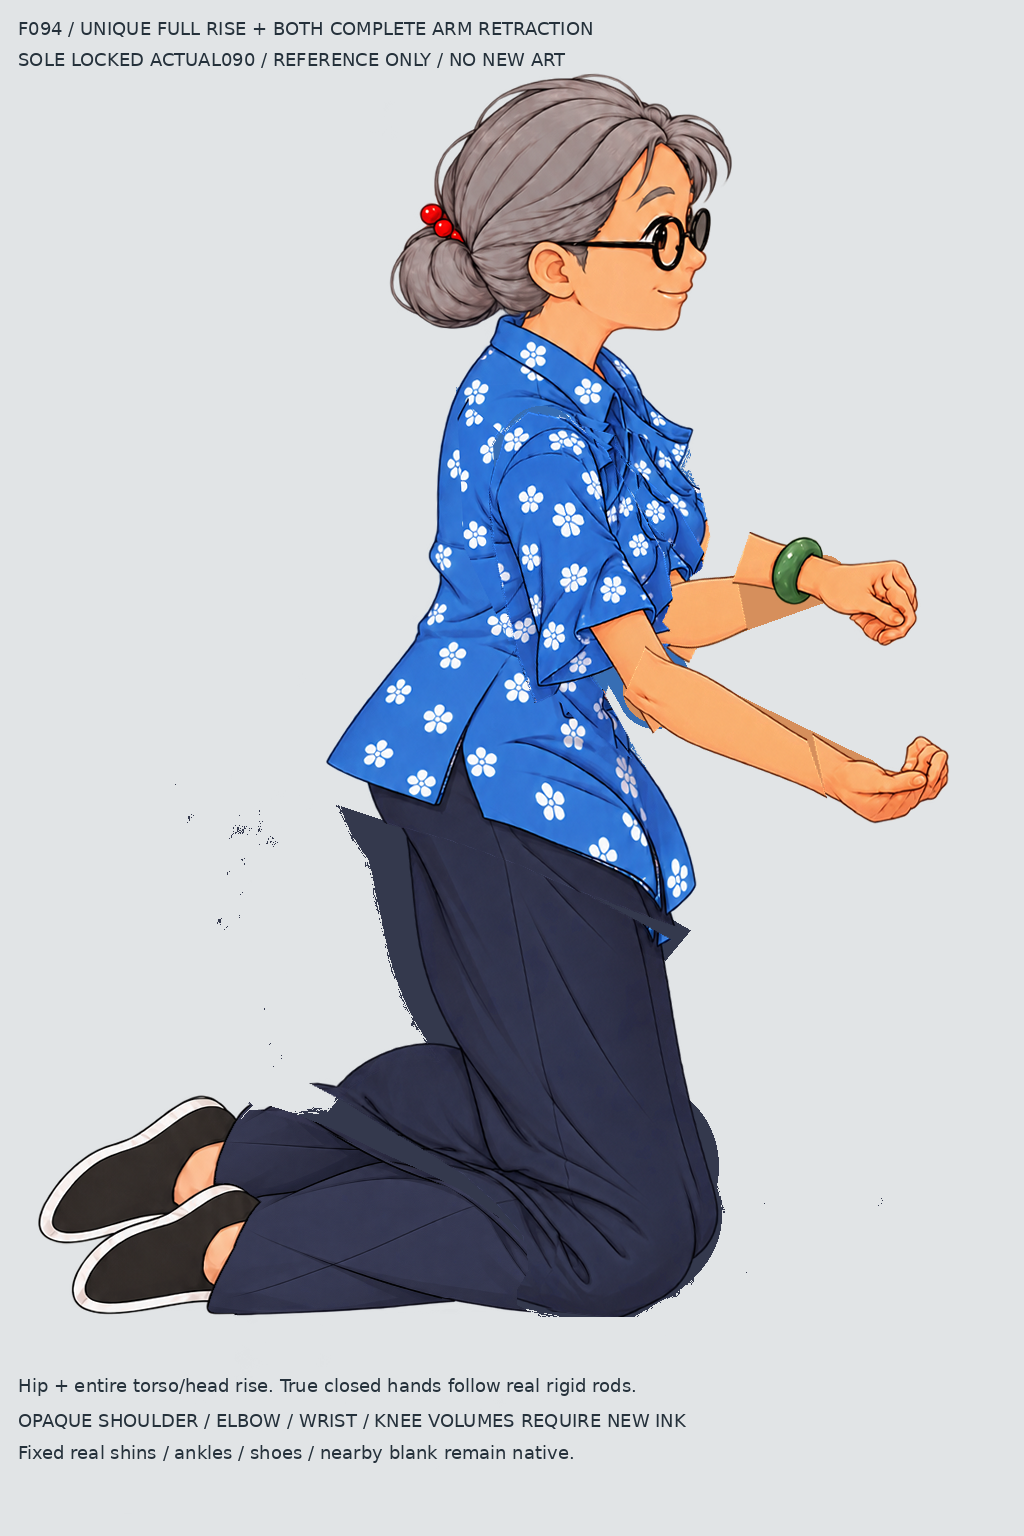
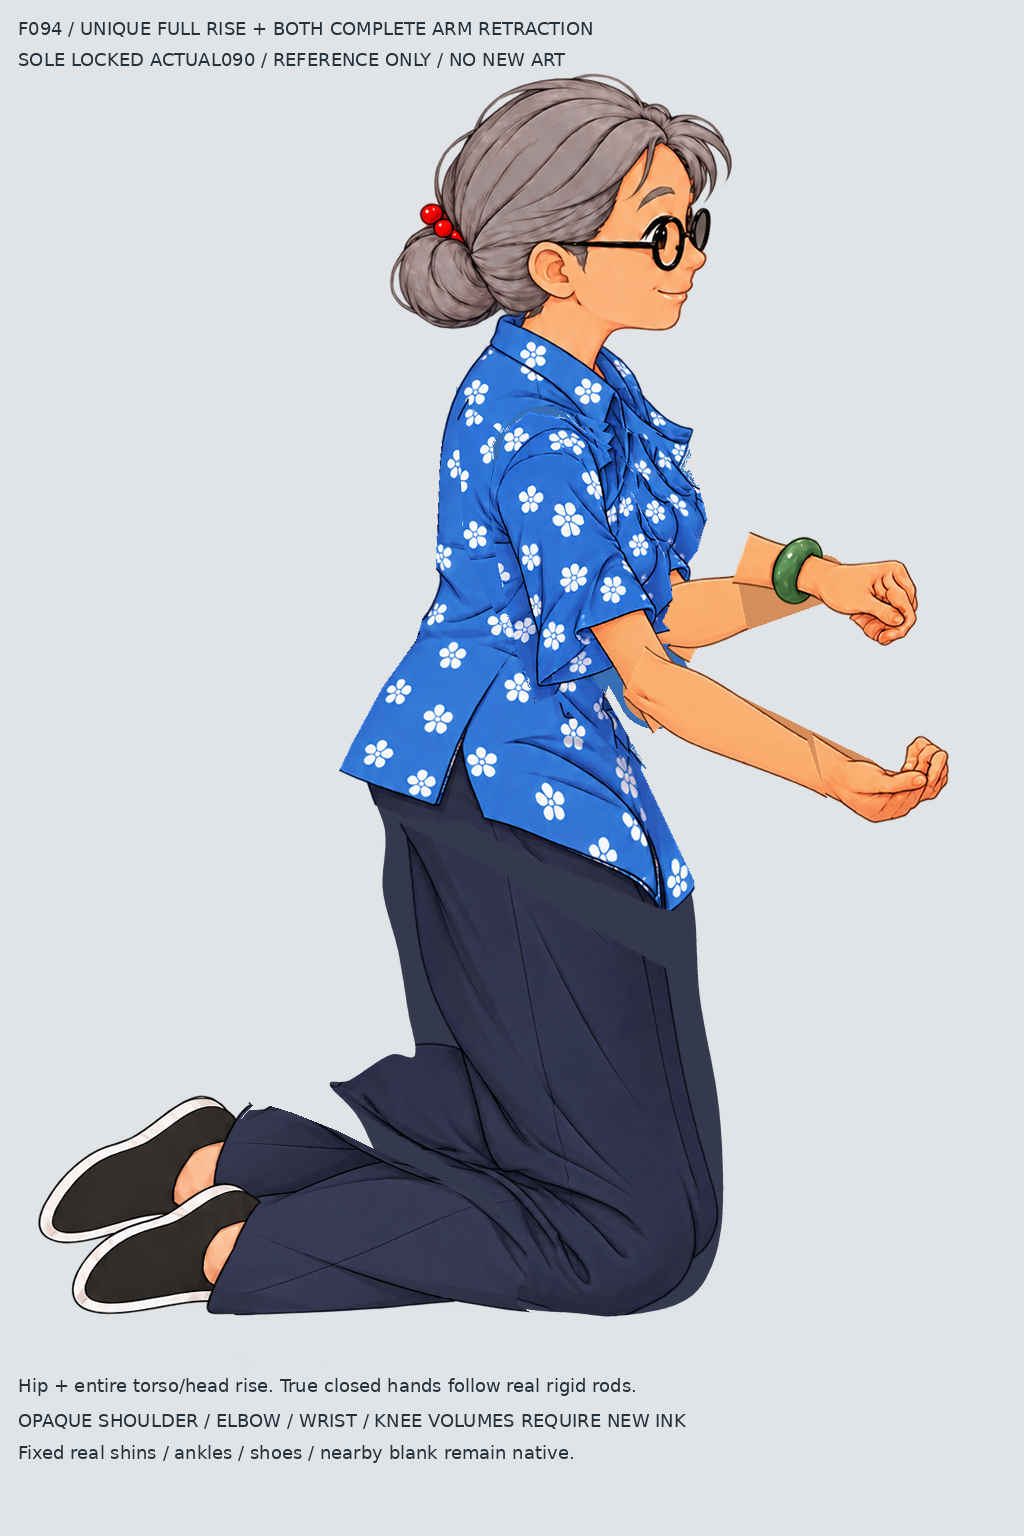
collab: deliver unique094 full rise retraction target and true65deg rigid prop input gate

diff --git a/collab/reviews/cloud_s12_20261018/F094_COMPLETE_TARGET_FROM_LOCKED090_20261019/code_props/prop_reference094.html b/collab/reviews/cloud_s12_20261018/F094_COMPLETE_TARGET_FROM_LOCKED090_20261019/code_props/prop_reference094.html
@@ -1,0 +1,1 @@
+<!doctype html><meta charset="utf-8"><title>True094 code prop reference only</title>

diff --git a/collab/reviews/cloud_s12_20261018/F094_COMPLETE_TARGET_FROM_LOCKED090_20261019/tools/build_full_visible_target_no_TPS.py b/collab/reviews/cloud_s12_20261018/F094_COMPLETE_TARGET_FROM_LOCKED090_20261019/tools/build_full_visible_target_no_TPS.py
@@ -18,16 +18,25 @@ UT=np.asarray(g['torso_head_rigid_matrix']);TH=np.asarray(g['thigh_rigid_matrix'
 rolemasks={r:np.asarray(Image.open(M/f'layers/{r}_WHOLE_REAL_ARM_EXACT_TRANSLATION.png').convert('RGBA'))[:,:,3]>0 for r in ['R','L']}
 collar=np.asarray(Image.open(M/'geometry/ONE_WHOLE_ORIGINAL_COLLAR_AND_CENTRAL_CHEST.png').convert('L'))>0
 arms=rolemasks['R']|rolemasks['L'];remove=arms&~collar
+front=np.interp(Y,[0,520,580,640,710,800,880,1535],[1024,700,680,630,600,630,660,1024])
+remove|=(Y>520)&(Y<880)&(X>front) # Clear the entire old competing appendage footprint, not only cached arm alpha.
+
 hem=np.interp(X,[0,250,300,360,420,480,540,600,660,1023],[800,800,810,830,850,875,905,930,955,960])
-torso=(Y<hem+8)&~remove&~fixed;thigh=(Y>hem-14)&~fixed
+shirt=Image.new('L',src.size);ImageDraw.Draw(shirt).polygon([(250,0),(850,0),(850,700),(700,700),(610,735),(612,796),(638,859),(659,910),(660,945),(620,934),(570,909),(520,888),(470,863),(431,837),(404,837),(375,831),(350,819),(300,802),(326,754),(359,700),(395,655),(418,590),(428,480),(438,410),(450,350),(250,350)],fill=255)
+torso=(np.asarray(shirt)>0)&~remove&~fixed;thigh=(Y>hem+16)&~fixed # Do not duplicate the old shirt hem inside the independently rotating thigh reference.
+
 out=Image.new('RGBA',src.size)
 # Both complete moving knee faces, natural upper-shin folded connection and
 # grounded round contact are explicit new-drawing activity, not old flat ink.
-knee=Image.new('RGBA',src.size)
-pant_support=np.zeros_like(B);pantmask=(B[:,:,3]>0)&(Y>hem-18)&~fixed;pant_support[pantmask]=[52,57,77,255];knee.alpha_composite(Image.fromarray(pant_support));kd=ImageDraw.Draw(knee)
-kd.polygon([(430,830),(570,860),(690,930),(665,960),(520,910)],fill=(52,57,77,255))
-kd.ellipse((452,1113,721,1317),fill=(52,57,77,255));kd.ellipse((566,1082,718,1250),fill=(52,57,77,255))
-out.alpha_composite(knee);out.alpha_composite(warp(part(thigh),TH))
+# A complete opaque technical thigh/knee envelope replaces construction gaps;
+# actual source pants retain their shading inside it. It is not production art.
+outline=np.array([(365,760),(445,770),(520,790),(610,830),(685,875),(700,1000),(719,1110),(722,1218),(706,1278),(675,1305),(616,1316),(575,1313),(525,1309),(485,1298),(430,1260),(392,1190),(360,1120),(330,1085),(350,1080),(390,1055),(415,1055),(408,1010),(398,950),(383,890),(385,830)],float)
+smooth=[]
+for i in range(len(outline)):
+ p0,p1,p2,p3=[outline[j%len(outline)] for j in [i-1,i,i+1,i+2]]
+ for t in np.linspace(0,1,16,endpoint=False):smooth.append(.5*((2*p1)+(-p0+p2)*t+(2*p0-5*p1+4*p2-p3)*t*t+(-p0+3*p1-3*p2+p3)*t*t*t))
+pm=Image.new('L',(4096,6144));ImageDraw.Draw(pm).polygon([tuple(4*q) for q in smooth],fill=255);pm=pm.resize(src.size,Image.Resampling.LANCZOS)
+pants=Image.new('RGBA',src.size,(52,57,77,255));pants.putalpha(pm);pants.alpha_composite(warp(part(thigh),TH));pa=np.asarray(pants).copy();pa[:,:,3]=np.minimum(pa[:,:,3],np.asarray(pm));pa[pa[:,:,3]==0]=0;out.alpha_composite(Image.fromarray(pa))
 core=np.asarray(Image.open(M/'geometry/CONTINUOUS_REAL_BODY_CORE_UNDER_NEW_SLEEVES.png').convert('L'))>0
 tech=np.zeros_like(B);tech[core&(B[:,:,3]>0)]=[55,110,180,255]
 out.alpha_composite(warp(Image.fromarray(tech),UT));out.alpha_composite(warp(part(torso),UT))

diff --git a/collab/reviews/cloud_s12_20261018/F094_COMPLETE_TARGET_FROM_LOCKED090_20261019/tools/write_same094_context_reference.py b/collab/reviews/cloud_s12_20261018/F094_COMPLETE_TARGET_FROM_LOCKED090_20261019/tools/write_same094_context_reference.py
@@ -1,0 +1,20 @@
+from pathlib import Path
+from PIL import Image,ImageDraw,ImageFont,ImageFilter
+import numpy as np,json
+O=Path(__file__).resolve().parents[1];R=O.parent;M=R/'F090_SAME_RAW_SEMANTIC_OWNERSHIP_FIXED_20261019'
+g=json.loads((O/'geometry/F094_COMPLETE_PERSON_AND_RIGID_PROP_PLAN.json').read_text())
+bg=np.asarray(Image.open(O/'anatomy/F094_REFERENCE_BG.png').convert('RGBA'));fg=np.asarray(Image.open(O/'anatomy/F094_REFERENCE_FG_TRUE_FRONT_DIGITS.png').convert('RGBA'))
+font=lambda s:ImageFont.truetype('/usr/share/fonts/truetype/dejavu/DejaVuSans.ttf',s)
+props=Image.open(O/'code_props/F094_TRUE_CRANE_AND_TWO_PHYSICALLY_RIGID_RODS_REFERENCE.png').convert('RGBA')
+base=Image.open(R/'right_hand_lower_rod_inputs_20261019/first034_040/code_props/background_box_cloth_UNCHANGED.png').convert('RGBA');base=base.copy()
+# Release only the old pressure fold; current code-crane alpha supplies cloth
+# shadow. Static box/room and old actual support shadow are not reconstructed.
+k=4;c=Image.new('RGBA',(1920*k,1080*k));cd=ImageDraw.Draw(c);cd.polygon([(int(x*k),int(y*k)) for x,y in [(1010,800),(1850,800),(1838,764),(1022,764)]],fill='#2f4a78')
+for j in range(16):
+ cx=1050+j*52;cy=784+(j%2)*6
+ for xx,yy,rr in [(cx,cy,4),(cx+26,cy-9,2.5)]:cd.ellipse(((xx-rr)*k,(yy-rr)*k,(xx+rr)*k,(yy+rr)*k),fill=(235,235,225,179))
+c=c.resize((1920,1080),Image.Resampling.LANCZOS);base.paste(c.crop((1430,780,1560,800)),(1430,780))
+shadow=props.getchannel('A').transform((1920,1080),Image.Transform.AFFINE,(1,-.04/.06,795*.04/.06,0,1/.06,800-795/.06),Image.Resampling.BICUBIC).filter(ImageFilter.GaussianBlur(3));clip=Image.new('L',(1920,1080));ImageDraw.Draw(clip).polygon([(1010,800),(1850,800),(1838,764),(1022,764)],fill=255);sa=np.uint8(np.asarray(shadow)*.07)*(np.asarray(clip)>0);shade=Image.new('RGBA',(1920,1080),(14,20,30,0));shade.putalpha(Image.fromarray(sa));base.alpha_composite(shade)
+base.save(O/'code_props/F094_BOX_CLOTH_UNLOAD_CONTEXT_REFERENCE.png')
+def scene(im):return im.transform((1920,1080),Image.Transform.AFFINE,(1/.7,0,-275/.7,0,1/.7,-112/.7),Image.Resampling.BICUBIC)
+ctx=base.copy();ctx.alpha_composite(Image.open(M/'actual_scene/F090_native_ground_shadows_actual_layer.png'));ctx.alpha_composite(scene(Image.fromarray(bg)));ctx.alpha_composite(props);ctx.alpha_composite(scene(Image.fromarray(fg)));ctx.alpha_composite(Image.open(M/'actual_scene/F090_box_front_actual_layer.png'));ctx.save(O/'anatomy/F094_SAME_PERSON_TRUE_PROP_BOX_GROUND_CONTEXT_REFERENCE_ONLY.png');dr=ImageDraw.Draw(ctx);dr.text((18,18),'F094 SAME POSE + TRUE65deg CODE CRANE / PHYSICALLY RIGID RODS / UNLIT REFERENCE ONLY',font=font(22),fill='white');ctx.convert('RGB').save(O/'inputs/02_SAME_F094_TRUE65_PAPER_RODS_BOX_GROUND_CONTEXT.png')

diff --git a/collab/reviews/cloud_s12_20261018/F094_COMPLETE_TARGET_FROM_LOCKED090_20261019/README.md b/collab/reviews/cloud_s12_20261018/F094_COMPLETE_TARGET_FROM_LOCKED090_20261019/README.md
@@ -1,5 +1,13 @@
-# 094 唯一完整可见目标先交，生图0
+# F094 唯一完整输入已交 · 生图0，待Astra实际输入门
 
-先看 `inputs/01_F094_UNIQUE_WHOLE_RISE_RETRACT_ROUND_KNEES.png`。唯一母图为Astra终锁090（be3d6da／5cbb8307）；整髋继续前上、腰胸肩整头起，双完整臂收回；双掌玉镯随真实杆群，肩袖/肘腕/髋膝技术体量仅作原生重画指引。旧竞争臂已清，固定实际支撑0变。
+先看[01唯一完整目标](inputs/01_F094_UNIQUE_WHOLE_RISE_RETRACT_ROUND_KNEES.png)、[02同态真65°纸鹤双杆/箱地](inputs/02_SAME_F094_TRUE65_PAPER_RODS_BOX_GROUND_CONTEXT.png)、[完整prompt/request及两输入SHA](requests/F094_COMPLETE_INPUT_GATE_NOT_EXECUTABLE.json)。两图均已实际打开。当前canonical两图及request覆盖768095f早期先报图；早期构造/清理快照明确不作模型输入。
 
-同态65°真代码纸鹤/杆/箱地参考与完整prompt/request正在补齐；当前还不是完整输入门，不执行图像工具。094生图0，实际094全景Canvas0。
+唯一人物母为Astra终锁090，be3d6da／native5cbb830781a2a81c3ee5039229085b01da0da29546df6142945e3db995cec7c3；新增1可用态已在来源记录，不再修090。094整髋由真实代理(429.166,890.095)到(462.551,872.890)，前33.38/上17.20native；双大腿6°、腰胸肩整头再立3°。两肘各向后收约38.57/32.40native，整上臂/前臂代理段长保持。代理约15–25px误差，不冒充隐骨测量。
+
+纸面60→65°，根推进至(1308.139914,562.225343)，单调接C110(1240,550)/85°。手杆由真实090三维杆向量随纸面正交转动共同求解，不插旧代码人物握点；裸右BODY握(929.375177,647.185063)，玉镯左NECK3握(905.034524,535.944809)。物理杆长不变，真代码铰点已核；新投影345.027935/576.016384scene。代码只画道具1批，人物0。02是未乘光参考布局，不是实际094全景Canvas。
+
+目标无整画布TPS。旧臂足迹清除，明确完整两臂体量及同一组真掌/玉镯；肩袖/肘腕、髋腿和两整圆膝及上胫折接域必须在一次原生绘图连贯重画。平色裤带、膝轮廓尖折、袖腕三角切面均为技术构造痕，prompt明确禁止复制成解剖或生产衣面。后续衣面只能完整语义RGBA/原alpha采用，白花灰影不作花色筛选。
+
+78318可见固定支撑像素与最终090原位RGBA一致，受保护留白新增alpha0、BG/FG互斥重建0diff。真实胫轴/长度/踝鞋/相邻空气保持；完整动态两膝和自然折接从首图就画齐，不沿旧水平截边复制。参考技术像素不生产化。[简短核验](qa/FINAL_INPUT_SHA_GEOMETRY_SUPPORT_AND_VISUAL_READBACK.json)。
+
+094调用0、原件0、实际094全景Canvas0；call_allowed:false、工具实参null。待Astra看这两张完整输入后再给明确门；不自动生成后续帧。
